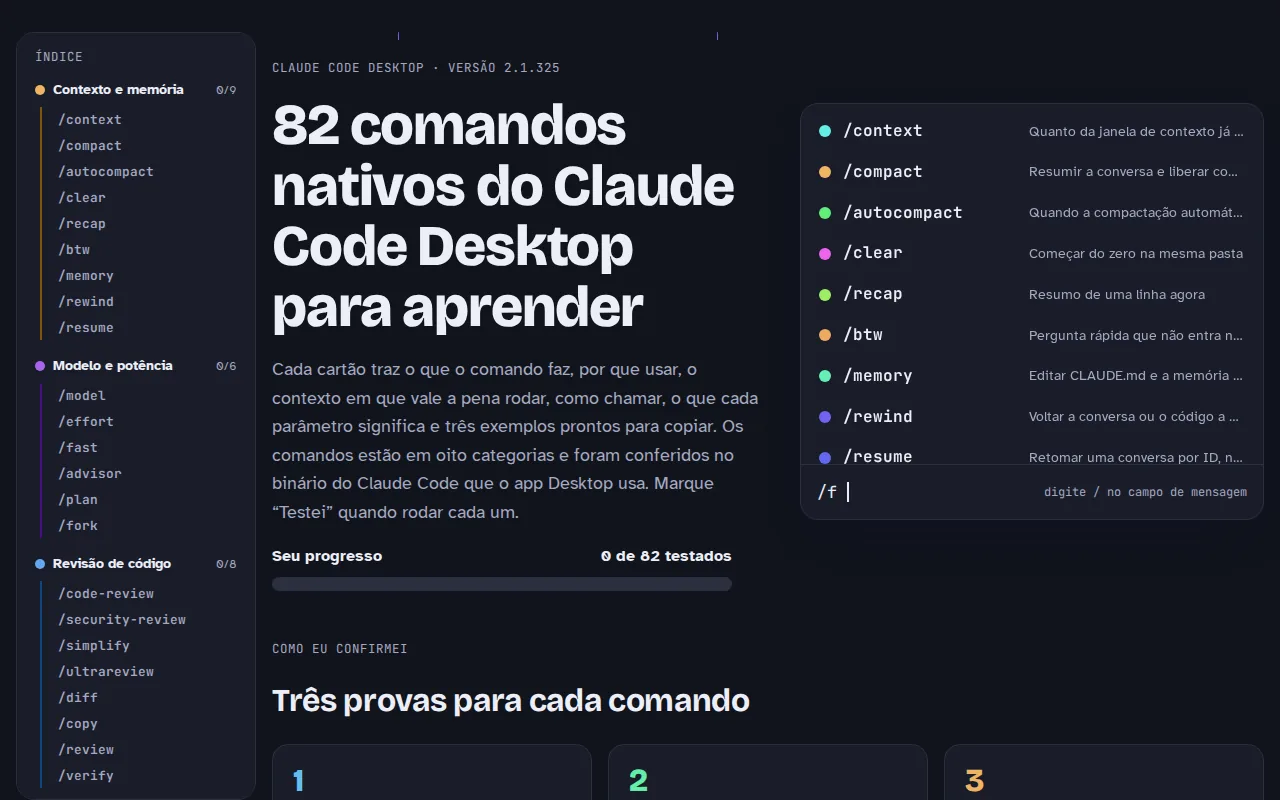
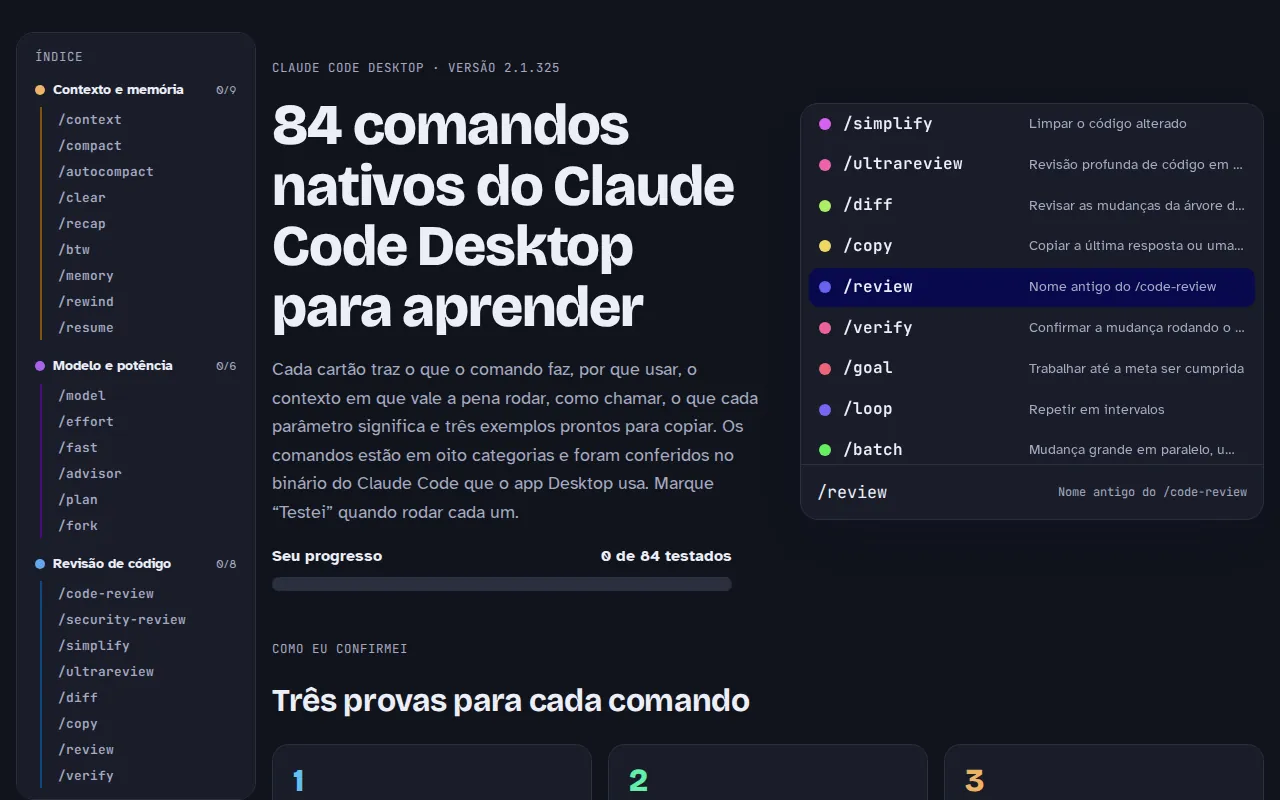
docs(readme): retake the guide screenshots with 84 commands
Why: the guide now has 84 command cards and posters, but the README's top, menu and filters, and 375 px screenshots still showed 82, and the hero alt text said 82.
How: the three WebP screenshots were retaken headless from the root page at 1280 and 375 px, with the same framing as before; the hero alt text and the changelog follow.
What: docs/screenshots/guide-hero-1280.webp, guide-menu-filters-1280.webp, guide-mobile-375.webp, README.md, CHANGELOG.md.
Validation: the new screenshots show 84 in the title, the progress line and the "Todas" filter; no console errors; no horizontal scroll at 375 px.

diff --git a/CHANGELOG.md b/CHANGELOG.md
@@ -10,6 +10,7 @@ project follows [Semantic Versioning](https://semver.org/spec/v2.0.0.html).
 
 - `/bug` card: now a built-in command with alias `/share`, as the docs table and the 2.1.325 binary say; the 22/11/2026 app observation (it opened `/feedback`) stays as a dated note.
 - Page history panel: the Lote 9 and Lote 10 lines are added, the footer covers lotes 4 to 10, and the "Fora do Desktop" panel no longer lists `/btw` and `/rewind`, which work in the app.
+- README screenshots of the guide's top, menu and filters, and the 375 px view retaken with the 84-command count.
 - README rewritten for a company audience: screenshots of the guide in `docs/screenshots/` and a gallery of registered posters.
 - The repository is public, with a fresh history. Working notes (`dossier/`, and `work/` except `work/infographic-contracts.md`) stay local and gitignored, and the skill reads the NotebookLM notebook URL from a gitignored `references/notebook.local.md`.
 - Command guide card text corrected against the 2026-11-23 source recheck: 58 wording fixes, the reload-skills and rewind notes, two docs links and the `/doctor` app field.

diff --git a/README.md b/README.md
@@ -4,7 +4,7 @@
 
 Aprenda os comandos nativos do Claude Code Desktop com um guia visual pronto para abrir no navegador.
 
-<img src="docs/screenshots/guide-hero-1280.webp" alt="Topo do guia: índice das categorias à esquerda, título com a contagem de 82 comandos e o painel de progresso dos testes" width="100%">
+<img src="docs/screenshots/guide-hero-1280.webp" alt="Topo do guia: índice das categorias à esquerda, título com a contagem de 84 comandos e o painel de progresso dos testes" width="100%">
 
 Uma página HTML com um design atraente que ensina o que os comandos nativos do Claude Code Desktop podem fazer por você. Você testa cada comando e marca **Testei** (a marca fica só no seu navegador), navega pelas oito categorias e abre o infográfico de cada comando que tem um.
 
